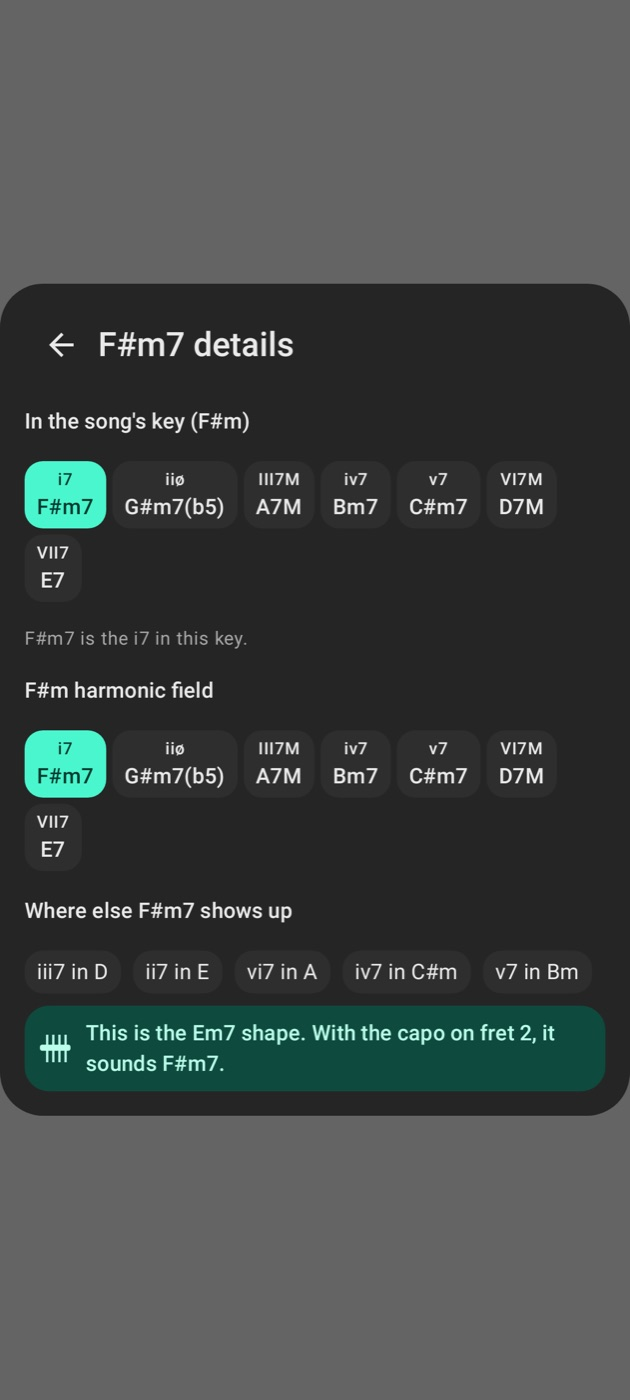
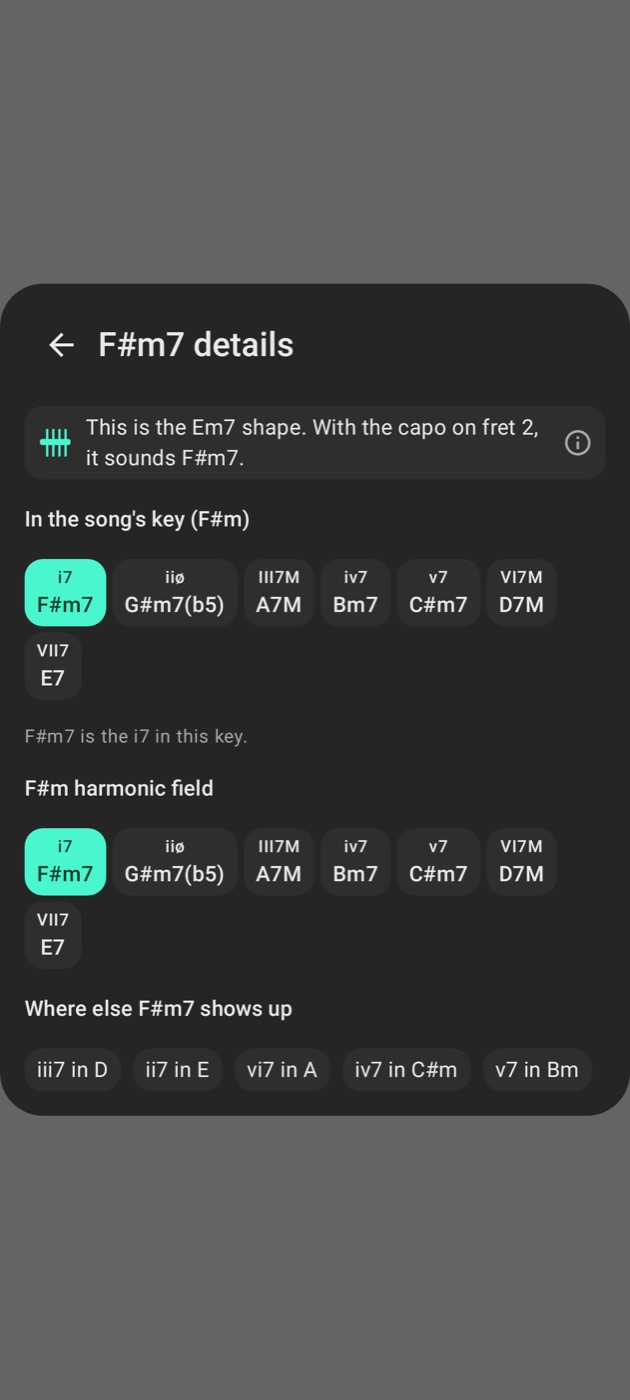
Capo note goes first in Details, quieter, with an explanation · Aviso do capo vem primeiro nos Detalhes, mais discreto e com explicação
The full color drew more attention than the harmonic field. At the top it explains the chord name before the field, and the info icon says why.
A cor cheia chamava mais atenção que o campo harmônico. No topo, ela explica o nome do acorde antes do campo, e o ícone de informação diz o porquê.

diff --git a/app/src/main/java/br/app/stagebook/ui/stage/ChordShapePopup.kt b/app/src/main/java/br/app/stagebook/ui/stage/ChordShapePopup.kt
@@ -39,6 +39,7 @@ import br.app.stagebook.data.model.Instrument
 import br.app.stagebook.domain.Voicings
 import br.app.stagebook.ui.components.AppIcons
 import br.app.stagebook.ui.components.ChordDiagram
+import br.app.stagebook.ui.components.HelpIcon
 import br.app.stagebook.ui.components.wideLists
 import br.app.stagebook.ui.theme.Spacing
 
@@ -92,8 +93,8 @@ fun ChordShapePopup(
                     // sounds); only here: most taps never open Details, and a song with no key has to be read for one
                     val songKey = remember(songText) { soundingKey.ifEmpty { Chords.soundingKey(Chords.detectKey(songText), Chords.capo(songText)) } }
                     val sounding = if (capo > 0) Chords.transposeChord(chord, capo, key = songKey) else chord
-                    ChordDetails(sounding, songKey, fullWidth, onBack = { details = false })
-                    if (capo > 0) CapoNote(stringResource(R.string.chord_capo_note, chord, capo, sounding), if (fullWidth) Modifier.fillMaxWidth() else Modifier.widthIn(max = 420.dp))
+                    val capoNote = if (capo > 0) stringResource(R.string.chord_capo_note, chord, capo, sounding) else null
+                    ChordDetails(sounding, songKey, capoNote, fullWidth, onBack = { details = false })
                     return@Column
                 }
                 if (count == 0) {
@@ -164,7 +165,7 @@ fun ChordShapePopup(
  */
 @OptIn(androidx.compose.foundation.layout.ExperimentalLayoutApi::class)
 @Composable
-private fun ChordDetails(chord: String, songKey: String, fullWidth: Boolean, onBack: () -> Unit) {
+private fun ChordDetails(chord: String, songKey: String, capoNote: String?, fullWidth: Boolean, onBack: () -> Unit) {
     val triad = remember(chord) { Chords.triad(chord) }
     val own = triad?.takeIf { !it.dim }?.let { Chords.keyName(it.root, it.minor) }
     // with a seventh, the fields use seventh chords (Gmaj7, Am7…) and the degree only lights if the seventh matches
@@ -177,6 +178,7 @@ private fun ChordDetails(chord: String, songKey: String, fullWidth: Boolean, onB
             IconButton(onClick = onBack) { Icon(AppIcons.Back, stringResource(R.string.chord_back_to_shape)) }
             Text(stringResource(R.string.chord_details_title, chord), style = MaterialTheme.typography.titleLarge)
         }
+        if (capoNote != null) CapoNote(capoNote)
         if (songKey.isNotEmpty()) {
             Text(stringResource(R.string.chord_details_song_key, songKey), style = MaterialTheme.typography.titleSmall)
             FieldRow(HarmonicField.field(songKey, sevenths), lit = place?.index)
@@ -207,13 +209,14 @@ private fun ChordDetails(chord: String, songKey: String, fullWidth: Boolean, onB
     }
 }
 
-/** Why Details name another chord than the one tapped: the capo. It stands out, or the musician takes the name for a mistake. */
+/** Why Details name another chord than the one tapped: the capo. First on the screen, so the name isn't taken for a mistake. */
 @Composable
-private fun CapoNote(text: String, modifier: Modifier = Modifier) {
-    Surface(modifier, shape = MaterialTheme.shapes.medium, color = MaterialTheme.colorScheme.primaryContainer) {
-        Row(Modifier.padding(Spacing.s), horizontalArrangement = Arrangement.spacedBy(Spacing.s), verticalAlignment = Alignment.CenterVertically) {
-            Icon(AppIcons.Capo, null)
-            Text(text, style = MaterialTheme.typography.titleSmall)
+private fun CapoNote(text: String) {
+    Surface(Modifier.fillMaxWidth(), shape = MaterialTheme.shapes.small, color = MaterialTheme.colorScheme.surfaceContainerHighest) {
+        Row(Modifier.padding(start = Spacing.s, end = Spacing.xs, top = Spacing.xs, bottom = Spacing.xs), horizontalArrangement = Arrangement.spacedBy(Spacing.s), verticalAlignment = Alignment.CenterVertically) {
+            Icon(AppIcons.Capo, null, tint = MaterialTheme.colorScheme.primary)
+            Text(text, Modifier.weight(1f), style = MaterialTheme.typography.bodyMedium)
+            HelpIcon(stringResource(R.string.chord_capo_help))
         }
     }
 }

diff --git a/app/src/test/java/br/app/stagebook/ChordPlayTest.kt b/app/src/test/java/br/app/stagebook/ChordPlayTest.kt
@@ -110,6 +110,15 @@ class ChordPlayTest {
         compose.onNodeWithText("No tom da música (F#m)").assertExists()
     }
 
+    @Test fun `the capo note comes before the harmonic field`() {
+        compose.setContent { StagebookTheme { ChordShapePopup("Em7", Instrument.ACOUSTIC_GUITAR, "{key: Em}\n{capo: 2}\n[Em7]um [G]dois", {}, {}) } }
+        compose.onNodeWithText("Detalhes").performClick()
+        val note = compose.onNodeWithText("O diagrama é de Em7. Com capo na 2ª casa, soa F#m7.").getBoundsInRoot()
+        assertTrue(note.bottom <= compose.onNodeWithText("No tom da música (F#m)").getBoundsInRoot().top)
+        compose.onNodeWithContentDescription("Como funciona").performClick()
+        compose.onNodeWithText("Os Detalhes mostram o que soa", substring = true).assertExists()
+    }
+
     private fun detailsWidth(): androidx.compose.ui.unit.Dp {
         compose.setContent { StagebookTheme { ChordShapePopup("Em7", Instrument.ACOUSTIC_GUITAR, "{key: Em}\n{capo: 2}\n[Em7]um [G]dois", {}, {}) } }
         compose.onNodeWithText("Detalhes").performScrollTo().performClick()
